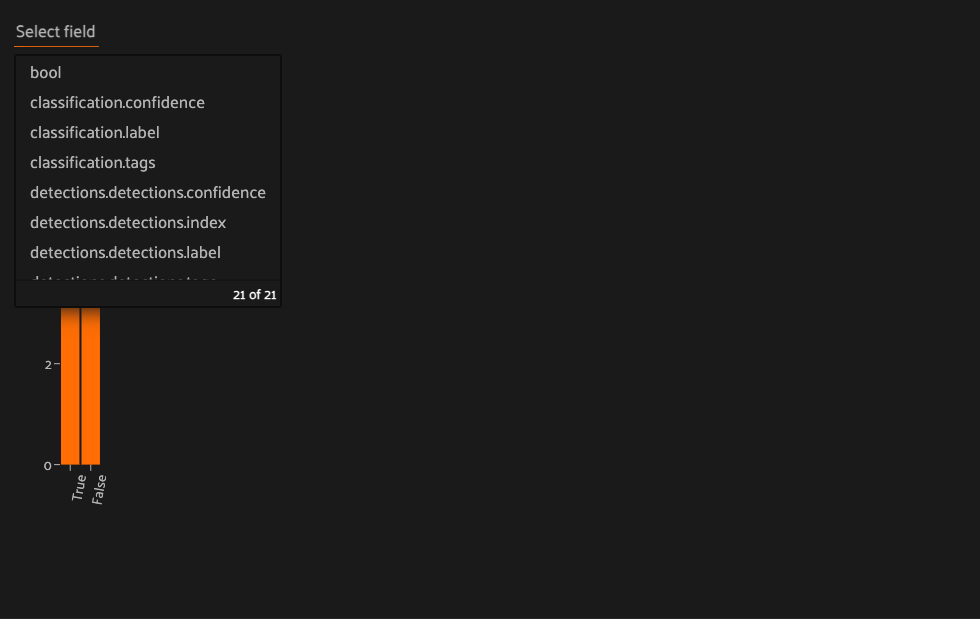
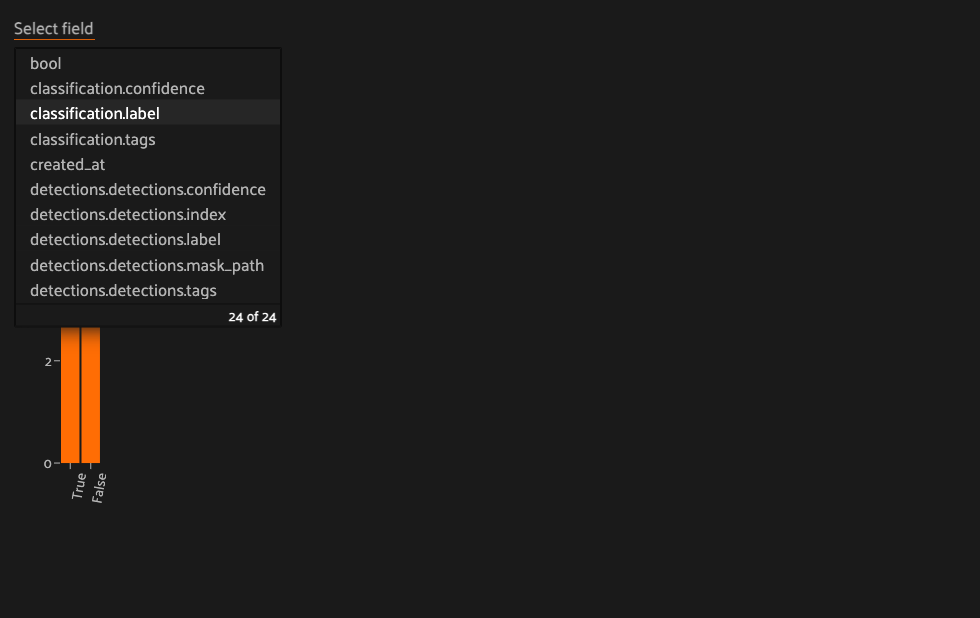
cleaning old screenshots

Changed region(s): [[0.0, 0.0307, 0.2755, 0.5534], [0.0306, 0.7379, 0.1224, 0.7994]]

diff --git a/app/packages/app/vite.config.ts b/app/packages/app/vite.config.ts
@@ -38,6 +38,8 @@ async function loadConfig() {
       },
     },
     server: {
+      host: true,
+    allowedHosts: true,
       port: Number.parseInt(process.env.FIFTYONE_DEFAULT_APP_PORT || "5173"),
       proxy: {
         "/plugins": {